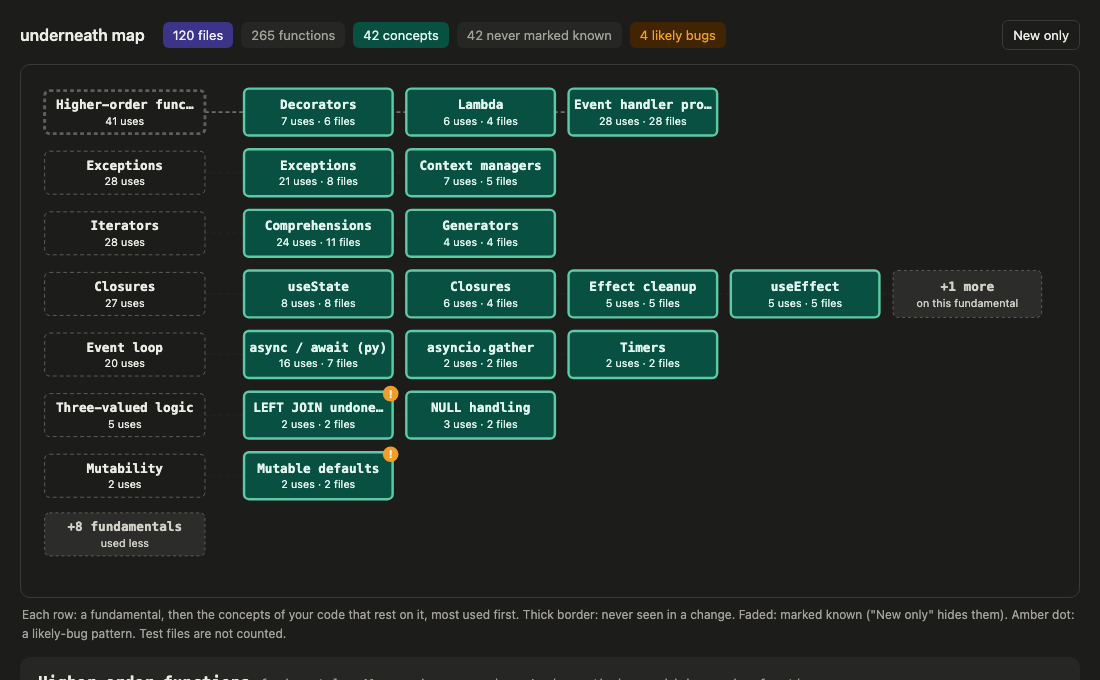
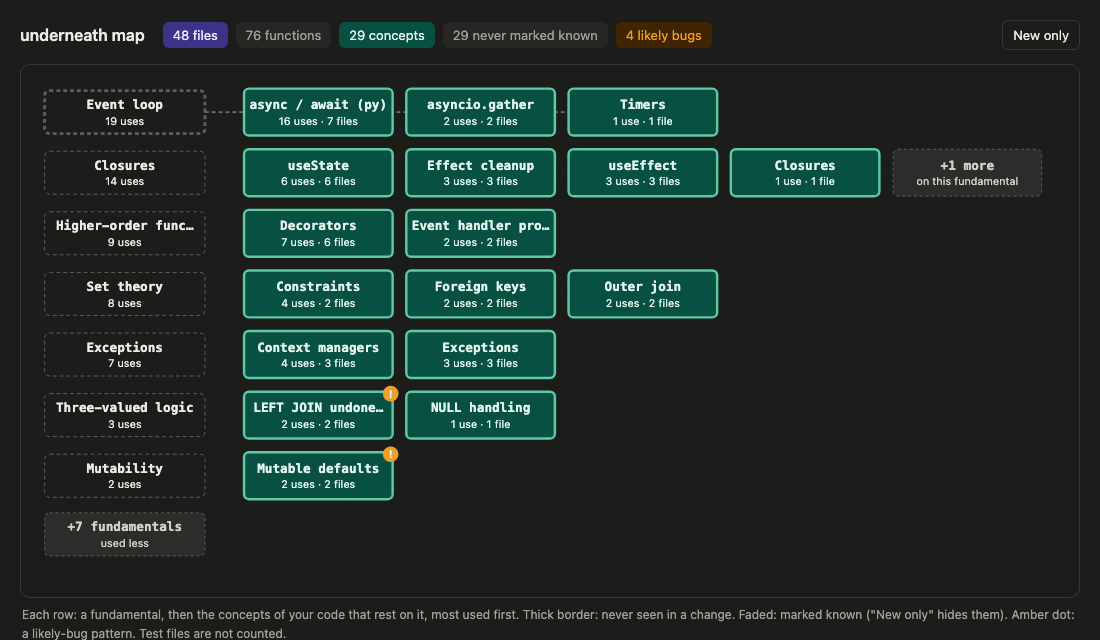
underneath 0.3.0
Classes as nodes, calls resolved by the receiver's type, SQL inside
Python and JS strings, history and underneath log, one tree-sitter query
per file, and 24 evaluation cases from real commits. Version in the CLI
and plugin.json, CHANGELOG, README (evaluation on the same 48 cases:
v0.2.1 98.9 % / 64.7 % / 81.5 % / 4 false links -> 100 % / 100 % / 100 % / 0),
map example on examples/, CLAUDE.md.

diff --git a/scripts/underneath.py b/scripts/underneath.py
@@ -19,7 +19,7 @@ import os
 import sys
 from pathlib import Path
 
-__version__ = "0.2.1"
+__version__ = "0.3.0"
 
 HERE = Path(__file__).resolve().parent
 sys.path.insert(0, str(HERE))

diff --git a/README.md b/README.md
@@ -33,10 +33,11 @@ In a randomized controlled trial, Anthropic found that developers learning a new
 - **Read from the code vs inferred.** Solid lines are extracted from the source. Dashed purple lines ("triggers", "aborts") are the agent's interpretation, and look like it.
 - **One floor down.** Every concept points to the language fundamental it rests on: `useEffect` → closures, `useMemo` → reference equality, `LEFT JOIN` → three-valued logic. `/underneath deeper closures` shows a 10-line example.
 - **Built for people who won't read.** 5 lines of text. At most 7 changed functions, 3 context functions and 5 concepts on the map. Everything else is one click away.
-- **Honest about what changed.** Code moved to another file, or pulled out of a big function, is marked *moved*, not new. Tests are not drawn: they become "tested by N" on the functions they call.
+- **Honest about what changed.** Code moved to another file, or pulled out of a big function, is marked *moved*, not new. Editing only a docstring is no change. Tests are not drawn: they become "tested by N" on the functions they call.
+- **Links you can trust.** `cache.get(k)` links to `ReportCache.get` when the code says `cache: ReportCache`; `rows.get(k)` on a dict links to nothing. Classes, `extends` and `super()` are followed; SQL written in Python or JS strings is read as SQL.
 - **Likely bugs surface by themselves.** Some rules are marked `risk` (a mutable default argument in Python, a `WHERE` that undoes a `LEFT JOIN`). They are always drawn and the agent must check them.
 - **It remembers what you know.** A local registry counts the concepts you have seen. New ones get a thick border; familiar ones fade out. `/underneath gaps` lists the ones you never marked as known.
-- **Measured.** An evaluation set of 18 diffs checks that no concept is invented and no false link is drawn (see [Evaluation](#evaluation)).
+- **Measured.** 48 diffs, half of them real commits of open-source projects, check that no concept is invented and no false link is drawn (see [Evaluation](#evaluation)).
 - **Local.** No network, no telemetry. `.underneath/` ignores itself in git.
 
 ![The fundamental panel for a SQL change, dark mode](docs/map-sql-dark.png)
@@ -84,18 +85,19 @@ Work as usual. At the end of a task the agent runs the skill and shows the card.
 - `/underneath since main`: map everything since `main`
 - `/underneath map`: the whole project's concept skeleton
 - `/underneath gaps`: concepts in your code you never marked as known
+- `/underneath log`: what the cards of the last 7 days showed (`--days N` for another period)
 - `/underneath deeper closures`: the fundamental, with a minimal example
 - `/underneath known react.useState`: stop highlighting a concept you know
 
 ### The project map
 
-`/underneath map` reads every file once and groups the concepts of your code by the fundamental they rest on: one row per fundamental, its concepts most used first, each with its use count and main files. Here it is on this repository:
+`/underneath map` reads every file once and groups the concepts of your code by the fundamental they rest on: one row per fundamental, its concepts most used first, each with its use count and main files. Here it is on the `examples/` folder of this repository:
 
 ```
-underneath map · 120 files · 265 functions · 42 concepts on 15 fundamentals
-  top   higher-order functions 41 · exceptions 28 · iterators 28
-  ⚠     Mutable defaults ×2 · first at examples/project-map/api/app/services.py:4 (+1 other)
-  gaps  42 never marked known · /underneath gaps
+underneath map · 48 files · 76 functions · 29 concepts on 14 fundamentals
+  top   event loop 19 · closures 14 · higher-order functions 9
+  ⚠     Mutable defaults ×2 · first at project-map/api/app/services.py:4 (+1 other)
+  gaps  29 never marked known · /underneath gaps
   map   .underneath/map.html
 ```
 
@@ -104,11 +106,11 @@ underneath map · 120 files · 265 functions · 42 concepts on 15 fundamentals
 `/underneath gaps` turns it into a reading list:
 
 ```
-underneath gaps · 42 of 42 concepts in your code never marked known, most used first
-  Comprehensions      24×  /underneath deeper py.comprehension
-  Exceptions          21×  /underneath deeper py.exceptions
+underneath gaps · 29 of 29 concepts in your code never marked known, most used first
   async / await (py)  16×  /underneath deeper py.asyncAwait
-  useState             8×  /underneath deeper react.useState
+  Decorators           7×  /underneath deeper py.decorator
+  useState             6×  /underneath deeper react.useState
+  Context managers     4×  /underneath deeper py.contextManager
 ```
 
 ### Run it yourself
@@ -118,6 +120,7 @@ python3 scripts/underneath.py extract            # brief for the agent + .undern
 python3 scripts/underneath.py render             # card + .underneath/latest.html
 python3 scripts/underneath.py map                # card + .underneath/map.html
 python3 scripts/underneath.py gaps
+python3 scripts/underneath.py log --days 30
 python3 scripts/underneath.py deeper three-valued-logic
 ```
 
@@ -150,13 +153,13 @@ git diff ──▶ tree-sitter ──▶ graph.json ──▶ agent writes notes
 ```
 
 1. **Scope.** Changed files against `HEAD` (or `--base`), untracked files included.
-2. **Extract.** Top-level functions, methods, components, hooks, SQL tables, views, indexes, in the changed files and in the files that can connect to them (found with `git grep`, so a large repository is not parsed whole). Calls, JSX renders, decorators and SQL references become edges. Each symbol is new, modified, moved or context.
+2. **Extract.** Top-level functions, classes, methods, components, hooks, SQL tables, views, indexes, in the changed files and in the files that can connect to them (found with `git grep`, so a large repository is not parsed whole). Calls, JSX renders, decorators, base classes and SQL references (in `.sql` files and in SQL strings) become edges; a method call is resolved through its receiver's type when the code states it. Each symbol is new, modified, moved or context.
 3. **Rank.** Changed symbols are scored by status, connections, entry point (exported component, route, view) and size. The best-connected one is the hub. Callers outside the diff become context; test files become "tested by N tests" instead of nodes.
 4. **Concepts.** Rules from `references/stacks/*.md` run on each symbol (comments and Python strings removed). Risk rules first, then one concept per function, then the rest.
 5. **Explain.** The agent reads a compact brief and writes `notes.json` (format in `references/card-format.md`).
 6. **Render.** Notes are checked against the graph, then the card, the map and the registry are written.
 
-On a 2,000-file React + Python repository, a diff takes 1.5 to 4 seconds; the project map takes 5 seconds the first time and under one second after that.
+On a 2,000-file React + Python repository, a diff takes 1.5 to 4 seconds; the project map takes about 5 seconds the first time and under one second after that.
 
 ## Evaluation
 
@@ -167,14 +170,16 @@ On a 2,000-file React + Python repository, a diff takes 1.5 to 4 seconds; the pr
 - **edge recall** and **false links**: expected calls found, and edges that should not be there;
 - **wrong context**: an unchanged function drawn when it should not be (a utility used everywhere), or missing when it should be (a caller).
 
-| | v0.1 | v0.2.1 |
-|---|---|---|
-| Concept precision | 91.2% (6 invented) | 100% (0 invented) |
-| Concept recall | 100% | 100% |
-| Edge recall | 100% | 100% |
-| False links | 2 | 0 |
+48 cases: 24 written for the purpose (the examples, a few changes per stack, and traps such as a docstring that says "await", `IS NOT NULL`, a variable named `signal`, `dict.get` next to a class with a `get` method, `cn` used in every page) and 24 real commits of [zustand](https://github.com/pmndrs/zustand), [httpx](https://github.com/encode/httpx), [postgres_dba](https://github.com/NikolayS/postgres_dba) and [jaffle-shop-classic](https://github.com/dbt-labs/jaffle-shop-classic), annotated by reading the diff before running the tool (licenses in `evals/third_party/`).
 
-18 cases: the examples, a few realistic changes per stack, and traps (a docstring that says "await", `IS NOT NULL`, a variable named `signal`, `dict.get` next to a class with a `get` method, `cn` and `Button` used in every page). Add a case with a `before/`, an `after/` and an `expected.json`; `python3 evals/run.py --show <case>` prints what the tool sees.
+| On the same 48 cases | v0.2.1 | v0.3.0 |
+|---|---|---|
+| Concept precision | 98.9% (1 invented) | 100% (0 invented) |
+| Concept recall | 64.7% (39.3% on the real commits) | 100% |
+| Edge recall | 81.5% | 100% |
+| False links | 4 | 0 |
+
+The real commits found most of what v0.3.0 fixes (SQL with `WITH` produced nothing, wrong links through `super()` and generators), so 100% here means "fixed what this set exposed", not "done": the set keeps growing. To add a commit: `python3 evals/tools/import_case.py <repo> <sha> <name>`, fill `expected.json` from the diff, then `python3 evals/run.py --show <name>` prints what the tool sees.
 
 ## Add a stack
 
@@ -198,18 +203,18 @@ Then add a case under `evals/cases/` (or an example under `examples/` with a tes
 
 Stacks we would love to see: Vue, Svelte, Next.js server components, Django ORM, FastAPI, Go, Rust, Kotlin, Flutter.
 
-## Limits (v0.2)
+## Limits (v0.3)
 
-- Calls are resolved by name, with same-class, same-file and import hints. Dynamic calls and same-named functions in unrelated files can be missed. Methods of built-in types (`get`, `push`, `map`…) called on another object are never linked, even when the object really is one of yours.
-- Only top-level functions and methods are nodes. Nested functions are folded into their parent; classes themselves are not nodes, so a decorator on a class is not counted.
-- SQL inside Python or JavaScript strings is not parsed.
+- A method call is linked through its receiver's type only when the code states the type (annotation, constructor, attribute set from one of those). Otherwise it falls back to the name, with same-class, same-file and import hints; built-in method names (`get`, `push`, `map`…) and calls on a chain (`self.x.m()`) are then not linked at all.
+- Nested functions are folded into their parent. TypeScript interfaces and types are not nodes.
+- SQL in strings is read only when passed to a known sink or written in uppercase SQL; SQL assembled from pieces is not.
 - Concept rules are pattern-based. The evaluation set keeps them honest, but it is small.
 - The map is regenerated each time. There is no history yet.
 
 ## Roadmap
 
-- **v0.3**: optional reading of a [Graphify](https://github.com/Graphify-Labs/graphify) `graph.json` for callers outside the repo scan, classes as nodes, a larger public evaluation set.
-- **v0.4**: more stacks (Vue, Django, Go).
+- **v0.4**: optional reading of a [Graphify](https://github.com/Graphify-Labs/graphify) `graph.json` for callers outside the repo scan; more real commits in the evaluation set.
+- **v0.5**: more stacks (Vue, Django, Go).
 - **v1.0**: team mode, with a shared project registry as living onboarding documentation.
 
 ## Credits

diff --git a/CLAUDE.md b/CLAUDE.md
@@ -15,6 +15,8 @@ Open-source Agent Skill that helps developers keep their fundamentals while AI g
 - Test files are not drawn as nodes; they become "tested by N tests" on the function.
 - Code moved or extracted elsewhere in the diff is `moved` (dotted), never `new`.
 - **Precision before recall.** Zero invented concepts and zero false links, enforced by `evals/` in CI. When in doubt, do not link and do not detect.
+- Receiver types come only from what the code states (annotation, constructor, attribute set from one of those, module instance). No type inference beyond that; unknown chains (`self.x.m()`) and built-in method names are never linked by name.
+- Eval expectations are written from the diff, before looking at the tool's output, and never edited to match it.
 - The Stop hook answers with `hookSpecificOutput.additionalContext`, not `{"decision": "block"}` (same loop guards, but Claude Code does not show it as an error). Approved by the maintainer.
 - `map` and `gaps` budgets: card ≤ 5 lines; map ≤ 7 fundamentals × 4 concepts; gaps ≤ 5 lines.
 - Local only, no network, no telemetry. `.underneath/` writes its own `.gitignore`.
@@ -34,11 +36,13 @@ scripts/render.py             notes validation, layout, SVG/HTML, card, registry
 scripts/project.py            whole-project scan with per-file cache (map, gaps)
 scripts/render_map.py         map/gaps cards and map.html
 scripts/stop_hook.py          the Stop hook; scripts/ids.py: change_id shared with render
+scripts/history.py            .underneath/history.jsonl and `underneath log`
 references/stacks/*.md        concept catalogues (the contribution unit)
 references/fundamentals.md    fundamentals with a short example each
 references/card-format.md     notes.json schema, writing rules, config.json keys
 examples/*/before|after       fixtures, each with the notes.json an agent would write
-evals/                        cases/*/expected.json, run.py (precision, recall, false links), thresholds.json
+evals/                        cases/*/expected.json (24 synthetic, 24 real-*), run.py, thresholds.json,
+                              tools/import_case.py (commit -> case), third_party/ (licenses of real cases)
 tests/test_examples.py        end-to-end tests (includes the evals)
 .github/workflows/ci.yml      tests + evals on Linux (3.10, 3.13) and macOS
 ```
@@ -58,17 +62,16 @@ Inside a real git repo: `python3 <this folder>/scripts/underneath.py extract`, w
 
 ## Status
 
-v0.2.1 (2026-11-16), see CHANGELOG.md. Dogfooded on a private 2,000-file React + FastAPI repo: a diff takes 1.5 to 4 s, `map` 5 s cold and under 1 s warm. Plugin and Stop hook tested in real `claude -p --plugin-dir` sessions. 17 tests and 18 eval cases green (100 % precision and recall, 0 false links, 0 wrong context), also on Python 3.10. Published on 2026-11-16 at https://github.com/touredri/underneath (public, `main`, tags `v0.1.0`, `v0.2.0`, `v0.2.1`, release v0.2.1); the first CI run passed on Ubuntu 3.10, 3.13 and macOS 3.13.
+v0.3.0 (2026-11-16), see CHANGELOG.md. Classes as nodes, typed receivers, SQL in strings, history and `log`, one tree-sitter query per file (parse 1.7x faster). 18 tests and 48 eval cases green: 100 % precision, recall and edge recall, 0 false links (v0.2.1 on the same set: 98.9 %, 64.7 %, 81.5 %, 4). Published at https://github.com/touredri/underneath; 0.3.0 is committed locally and waits for the maintainer's go to push and release.
 
-Known limits: name-based call resolution (same class, same file, imports as hints), and built-in method names (`get`, `push`…) on other objects are never linked; only top-level functions and methods (no class nodes); SQL inside strings not parsed; regex-based concept rules.
-
-Dogfooding frictions fixed in 0.2.1: utilities no longer take context slots; `minor` concepts rank last; likely bugs always visible on map.html.
+Known limits: types only when stated; nested functions folded; TS interfaces/types not nodes; SQL in strings only via sinks or uppercase SQL; regex-based concept rules.
 
 ## Next steps (in order)
 
-1. Watch the first real uses: install from GitHub (marketplace + `~/.underneath/venv`) was tested end to end on 0.2.1, as were the missing-dependency hint and the card at the end of a task. Release notes: GitHub releases, from CHANGELOG.md.
-2. v0.3: optional Graphify `graph.json` for callers outside the scan; classes as nodes; a larger eval set (cases from real diffs).
-3. v0.4: more stacks (Vue, Django, Go).
+1. Push 0.3.0, tag, GitHub release from the CHANGELOG, check CI, update the installed plugin (`/plugin update`).
+2. Grow the real-commit eval set (more repos, React apps, FastAPI/Django with SQL in strings) with evals/tools/import_case.py; keep expectations written from the diff.
+3. v0.4: optional Graphify `graph.json` for callers outside the scan.
+4. v0.5: more stacks (Vue, Django, Go).
 
 ## Conventions
 

diff --git a/CHANGELOG.md b/CHANGELOG.md
@@ -2,6 +2,29 @@
 
 All notable changes to underneath. The format follows [Keep a Changelog](https://keepachangelog.com/en/1.1.0/); versions follow [Semantic Versioning](https://semver.org/).
 
+## [0.3.0] - 2026-11-16
+
+### Added
+
+- Classes are nodes. A class shows its decorators, bases and class attributes (its methods stay separate nodes), `extends` and `class A(B)` give an `inherits` edge, and `Cls()` / `new Cls()` link to the class. New concepts: `py.inheritance`, `py.abstract`, `js.class`, `js.inheritance`; `py.dataclass` now fires on the class it decorates.
+- Calls are resolved by the receiver's type when the code states it: a parameter annotation, a constructor call, a `self`/`this` attribute set from one of those, or a module-level instance. `cache.get(k)` with `cache: ReportCache` links to `ReportCache.get`, or to the method a base class provides; `super()` goes to the base class.
+- SQL inside Python and JS strings: a string passed to `execute`, `text`, `read_sql`, `query`, the `` sql`...` `` tag and the like, or written in uppercase SQL, is read as SQL. Its concepts and risks apply (a `LEFT JOIN` undone by `WHERE` in a backend function is flagged), and the tables it names get a `queries` edge.
+- History and `underneath log`: every rendered card is kept in `.underneath/history.jsonl` (locally); `log [--days N]` sums up a period in 5 lines: changes, concepts that came back, new ones, likely bugs, and the concept to look at next.
+- 24 evaluation cases from real commits of zustand, httpx, postgres_dba and jaffle-shop-classic, annotated by reading each diff, and `evals/tools/import_case.py` to add more. `evals/run.py --only/--skip`, per-case `limits`.
+
+### Changed
+
+- One tree-sitter query per file collects every node the extractors need, in C: parsing a 2,030-file repository went from 17.9 s to 10.6 s, with identical output.
+- Editing only a docstring or whole-line comments no longer marks a function modified.
+- A function copied from one that still exists is new, not moved.
+
+### Fixed
+
+- SQL statements starting with `WITH`, and statements inside `BEGIN ... COMMIT`, produced no node at all.
+- `sql.subquery` fired on a CTE body.
+- Methods called on a chain of unknown type (`self.decompressor.flush()`) or on a generator (`gen.send(x)`) were linked to project methods with the same name.
+- The comprehension rule missed `[f(x) for x in xs]`; an `async` JS function without `await` was not async.
+
 ## [0.2.1] - 2026-11-16
 
 ### Fixed
@@ -49,6 +72,7 @@ All notable changes to underneath. The format follows [Keep a Changelog](https:/
 
 - First release: `extract`, `render`, `deeper`, `known`. A 5-line card and an HTML map of the functions an agent changed, how they connect, the concepts they use and the fundamental underneath, for React/TypeScript/JavaScript, Python and SQL.
 
+[0.3.0]: https://github.com/touredri/underneath/compare/v0.2.1...v0.3.0
 [0.2.1]: https://github.com/touredri/underneath/compare/v0.2.0...v0.2.1
 [0.2.0]: https://github.com/touredri/underneath/compare/v0.1.0...v0.2.0
 [0.1.0]: https://github.com/touredri/underneath/releases/tag/v0.1.0
